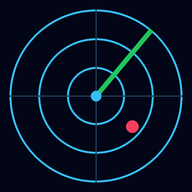
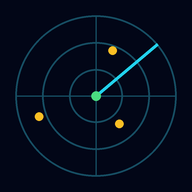
Add files via upload

Changed region(s): [[0.0312, 0.0312, 0.9688, 0.9688]]

diff --git a/ais-relay-worker.js b/ais-relay-worker.js
@@ -1,0 +1,42 @@
+// Cloudflare Worker: AIS relay (aisstream.io -> your app)
+// Secret required: AISSTREAM_KEY
+// Optional area in URL: ?box=lat1,lon1,lat2,lon2
+export default {
+  async fetch(req, env) {
+    if (req.headers.get("Upgrade") !== "websocket") {
+      return new Response("AIS relay OK", { status: 200 });
+    }
+    const url = new URL(req.url);
+    const b = (url.searchParams.get("box") || "24.5,54,28.5,58.5").split(",").map(Number);
+    if (b.length !== 4 || b.some(isNaN)) return new Response("bad box", { status: 400 });
+
+    const pair = new WebSocketPair();
+    const [client, server] = Object.values(pair);
+    server.accept();
+
+    const up = await fetch("https://stream.aisstream.io/v0/stream", {
+      headers: { Upgrade: "websocket" },
+    });
+    const upstream = up.webSocket;
+    if (!upstream) {
+      server.close(1011, "upstream failed");
+      return new Response(null, { status: 101, webSocket: client });
+    }
+    upstream.accept();
+    upstream.send(JSON.stringify({
+      APIKey: env.AISSTREAM_KEY,
+      BoundingBoxes: [[[b[0], b[1]], [b[2], b[3]]]],
+      FilterMessageTypes: ["PositionReport"],
+    }));
+
+    const dec = new TextDecoder();
+    upstream.addEventListener("message", (e) => {
+      try { server.send(typeof e.data === "string" ? e.data : dec.decode(e.data)); } catch (_) {}
+    });
+    upstream.addEventListener("close", () => { try { server.close(); } catch (_) {} });
+    upstream.addEventListener("error", () => { try { server.close(); } catch (_) {} });
+    server.addEventListener("close", () => { try { upstream.close(); } catch (_) {} });
+
+    return new Response(null, { status: 101, webSocket: client });
+  },
+};

diff --git a/sw.js b/sw.js
@@ -1,4 +1,4 @@
-const CACHE = 'marine-radar-v9';
+const CACHE = 'marine-radar-v10';
 const ASSETS = ['./', './index.html', './manifest.json', './icon-192.png', './icon-512.png', './icon-maskable-512.png'];
 
 self.addEventListener('install', (e) => {
@@ -17,7 +17,6 @@ self.addEventListener('activate', (e) => {
   );
 });
 
-// الشبكة أولاً ثم الكاش. الطلبات الخارجية و WebSocket لا يعترضها الـ SW إطلاقاً.
 self.addEventListener('fetch', (e) => {
   const req = e.request;
   const url = new URL(req.url);
